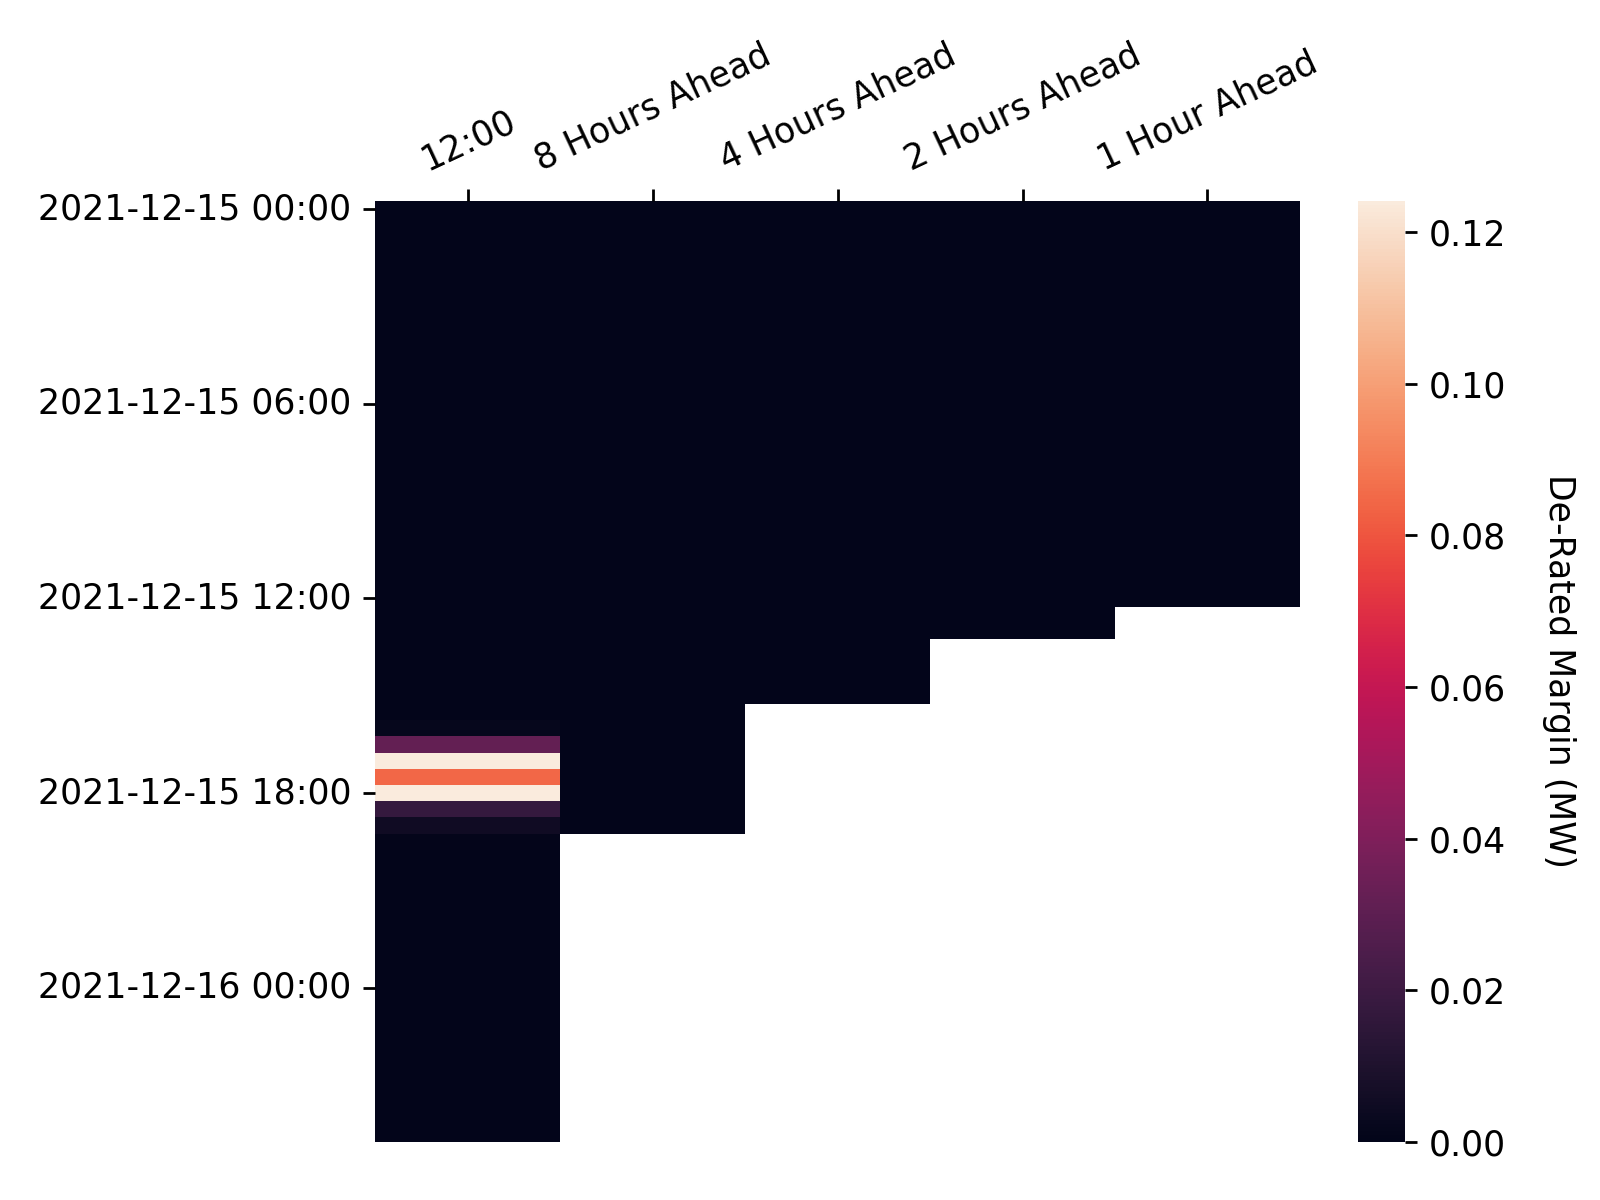
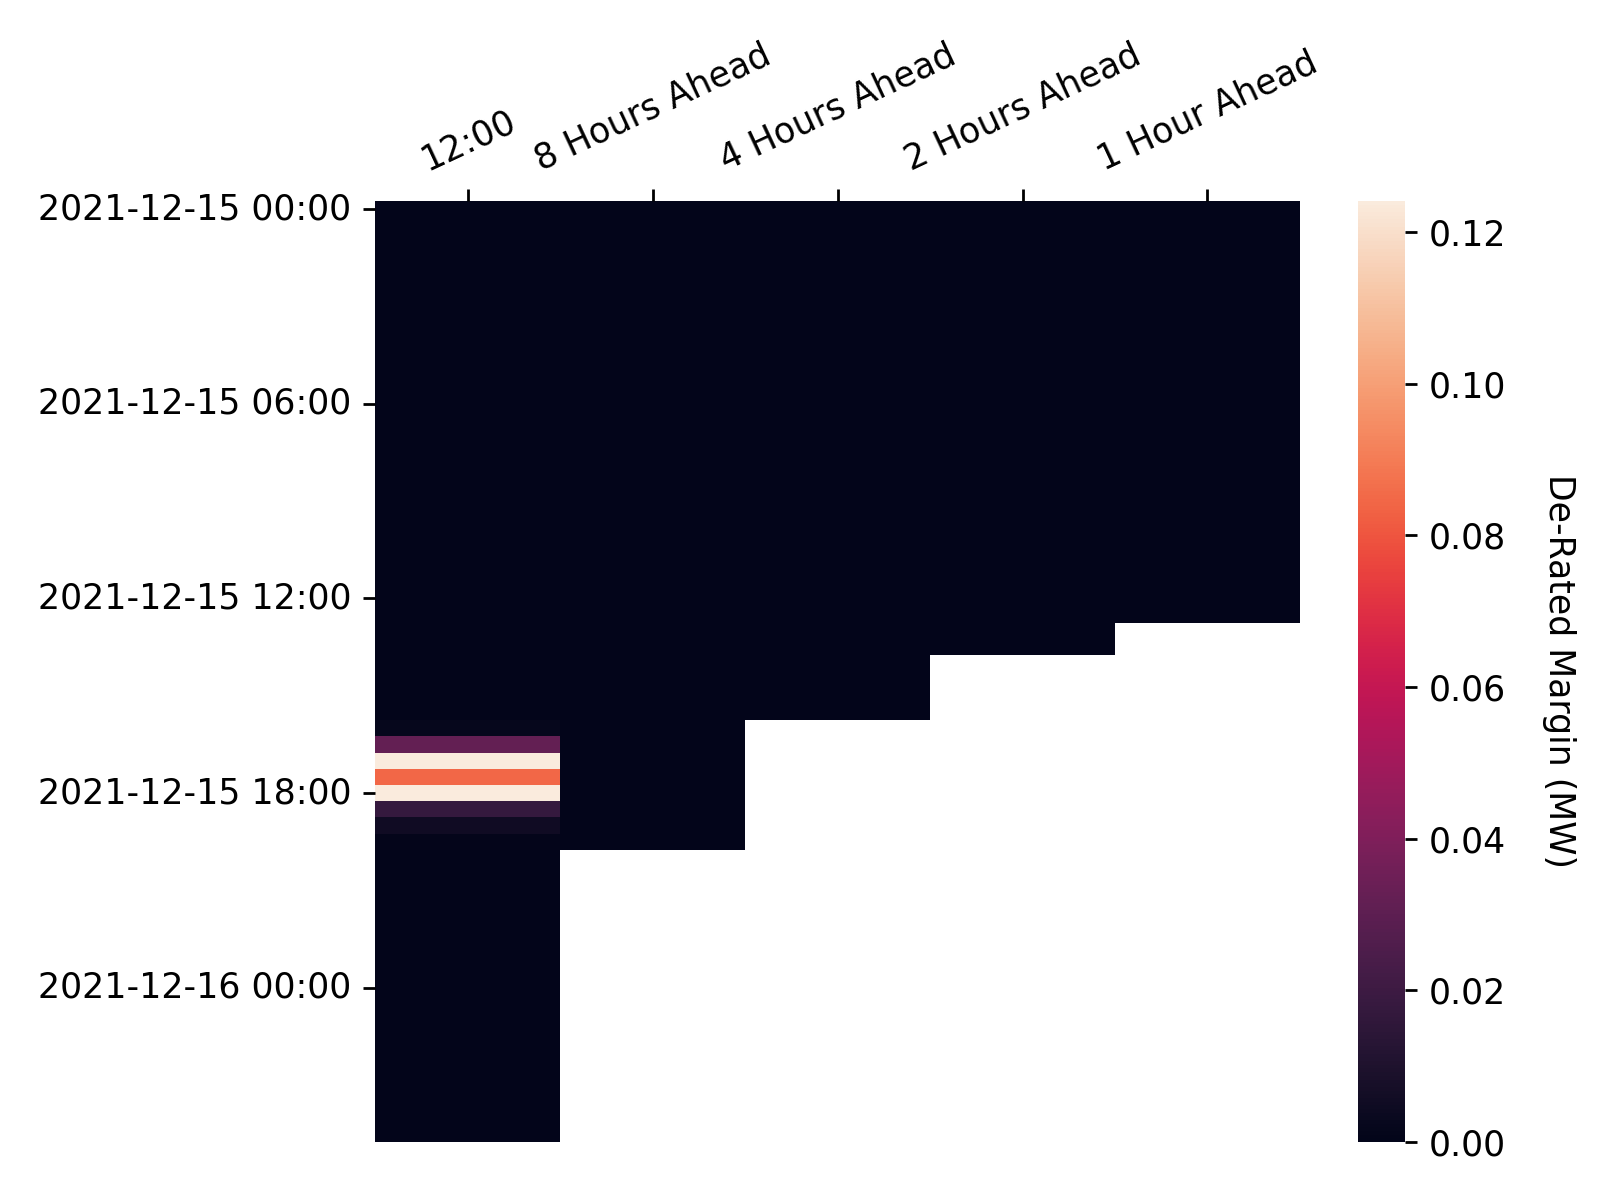
Apply automatic changes

Changed region(s): [[0.5625, 0.4933, 0.8125, 0.555], [0.4688, 0.5858, 0.5938, 0.6167], [0.3438, 0.6783, 0.4688, 0.7092]]

diff --git a/docs/js/map.js b/docs/js/map.js
@@ -144,7 +144,7 @@ document.addEventListener("DOMContentLoaded", function() {
                 follow: 1
             });
             mymap.addControl(sliderControl);
-            sliderControl.startSlider(334);
+            sliderControl.startSlider(335);
         });
     });
 });

diff --git a/docs/visualisations.md b/docs/visualisations.md
@@ -60,7 +60,7 @@ In each settlement period the system operator publishes the de-rated margin fore
 * At 1200 hours on each calendar day for all Settlement Periods for which Gate Closure has not yet passed and which occur within the current Operational Day or the following Operational Day; and
 * At eight, four, two and one hour(s) prior to the beginning of the Settlement Period to which the De-Rated Margin Forecast relates.
 
-These figures will be updated on an hourly basis, the last update was at: 2021-12-15 11:10
+These figures will be updated on an hourly basis, the last update was at: 2021-12-15 11:35
 
 <br>
 
@@ -83,7 +83,7 @@ The following heatmap shows how the more recent de-rated margin forecasts deviat
 
 ### Power Output Map
 
-Last Updated: 2021-12-15 11:10
+Last Updated: 2021-12-15 11:40
 
 This map shows the power output of individual plants connected to the transmission grid as stated in their most recent Physical Notifications. This data can be retrieved through the *PHYBMDATA* BMRS stream, the out-turn data can be viewed one week later through the *B1610* stream. The scrollbar at the top of the map can be used to view how the generation sources have changed their output over the last week, the layer control can be used to toggle on/off the transmission network, and the plants themselves can be clicked to reveal additional information. The plant location data used in this map has been taking from a sister project, [the Power Station Dictionary](https://osuked.github.io/Power-Station-Dictionary/), which aims to link between data about individual power plants.
 
